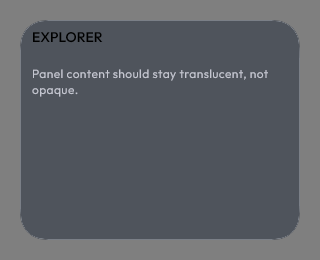
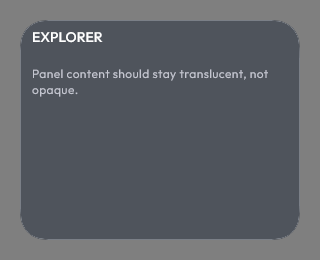
Fix black panel-header titles ("Explorer", "AI Assistant") and message bubble timestamps
GlassPanelHeader's title Text() and icon Icon() had no color/tint set
at all, and the component isn't wrapped in a Material3 Surface (it's
custom Row/Box, like every other glass component in this codebase) -
so there's nothing to set LocalContentColor away from its unthemed
default, and Text()/Icon() fall back to black regardless of theme.
GlassPanelHeader is the shared header used by every panel with a
title - explains both "Explorer" and "AI Assistant" being black at
once, exactly as reported from a real screenshot.

Root-caused precisely by comparing against GlassButton/GlassIconButton,
which DO explicitly wrap their content slot in
CompositionLocalProvider(LocalContentColor provides finalContentColor)
- that's why bare Icon()/Text() calls inside GlassIconButton (e.g. the
top bar's menu/notification/settings icons) were already fine, while
bare Text()/Icon() outside both a Surface and a GlassButton were not.
Used that distinction to audit every Text()/Icon() call across
core:designsystem/component and core:ui for the same pattern - found
one more real instance (GlassMessageBubble's timestamp text, same
missing-color-outside-Surface-or-GlassButton bug) and fixed it too;
confirmed several other candidates (GlassTabBar's close icon,
GlassTextField's password-toggle icon, GlassTopBar's menu/bell/gear
icons) are correctly wrapped in GlassIconButton and don't need
changes.

Also discovered testGlassPanelContainer's own existing baseline
[…]

Changed region(s): [[0.0938, 0.1231, 0.3438, 0.1846]]

diff --git a/core/designsystem/src/commonMain/kotlin/org/ide/lti/core/designsystem/component/GlassPanel.kt b/core/designsystem/src/commonMain/kotlin/org/ide/lti/core/designsystem/component/GlassPanel.kt
@@ -41,6 +41,7 @@ import com.kashif_e.backdrop.effects.vibrancy
 import org.ide.lti.core.designsystem.theme.BackdropBlur
 import org.ide.lti.core.designsystem.theme.ComponentSize
 import org.ide.lti.core.designsystem.theme.CornerRadius
+import org.ide.lti.core.designsystem.theme.GlassTheme
 import org.ide.lti.core.designsystem.theme.IconSize
 import org.ide.lti.core.designsystem.theme.LensRefraction
 import org.ide.lti.core.designsystem.theme.Spacing
@@ -115,12 +116,14 @@ fun GlassPanelHeader(
                 Icon(
                     imageVector = icon,
                     contentDescription = null,
+                    tint = GlassTheme.colors.onGlassSecondary,
                     modifier = Modifier.padding(end = Spacing.Small)
                 )
             }
             Text(
                 text = title,
                 style = MaterialTheme.typography.titleSmall,
+                color = GlassTheme.colors.onGlass,
             )
         }
         actions?.invoke()

diff --git a/core/ui/src/commonMain/kotlin/org/ide/lti/core/ui/GlassMessageBubble.kt b/core/ui/src/commonMain/kotlin/org/ide/lti/core/ui/GlassMessageBubble.kt
@@ -126,6 +126,7 @@ fun GlassMessageBubble(
             Text(
                 text = formatTimestamp(timestamp),
                 style = MaterialTheme.typography.labelSmall,
+                color = GlassTheme.colors.onGlassMuted,
                 modifier = Modifier.padding(horizontal = Spacing.SmallMedium, vertical = Spacing.ExtraSmall),
             )
         }
